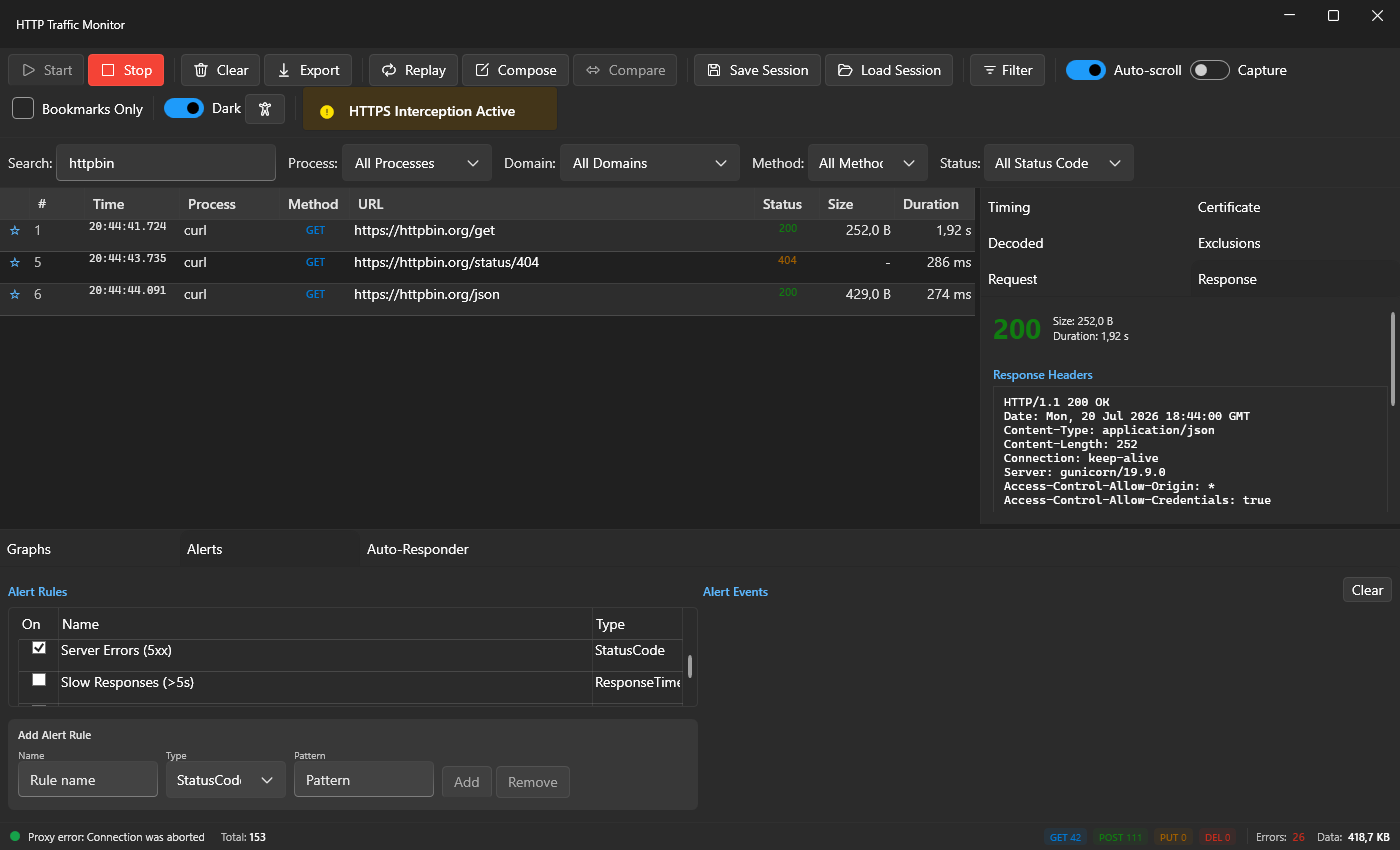
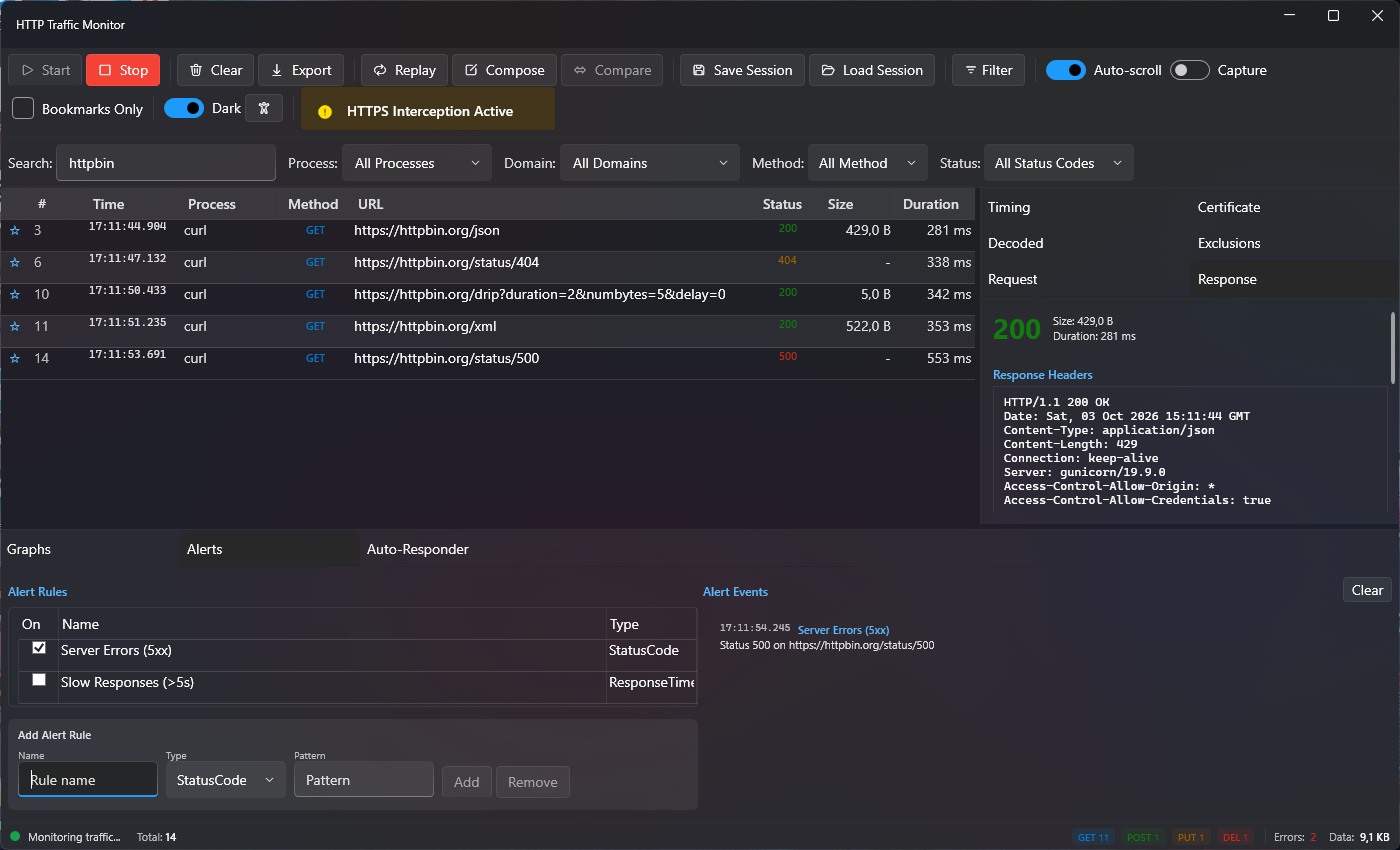
Show only demo traffic in the README screenshots
The still screenshots below the demo showed traffic from the maintainer's
own machine (OneDrive and Microsoft telemetry endpoints, Slack, Copilot,
their process names) and a "Proxy error" in the status bar. All nine are
re-shot from the current build with nothing but curl calls to public sample
APIs (JSONPlaceholder, httpbin, example.com, GitHub) and a normal
"Monitoring traffic..." status. They still show the charts, request detail,
timing, response, advanced filter, replay, alerts, auto-responder and the
light theme. The README now says the pictures show demo traffic and that
the 404/500 responses are deliberate, and that the alert event comes from
the demo's 500 request.

Implemented and verified by an automated run; please review before trusting it blindly.

diff --git a/README.md b/README.md
@@ -39,6 +39,8 @@ Choose this tool when you are on Windows and want a free graphical inspector tha
 
 ![Live capture with charts](docs/screenshots/02-live-capture.png)
 
+*The screenshots show demo traffic only: `curl` calls to public sample APIs (JSONPlaceholder, httpbin, example.com, GitHub). The 404 and 500 responses among them are requested on purpose, to show how failed requests stand out.*
+
 ## Features
 
 ### Capture & inspect
@@ -65,14 +67,14 @@ Edit and resend any captured request, or compose a brand-new one from scratch, w
 Pick two requests and get a line-by-line diff (via [DiffPlex](https://github.com/mmanela/diffplex)) across headers and bodies.
 
 ### Alerts
-Rule-based alerting on status codes, response time thresholds, or custom patterns, with a live event feed.
+Rule-based alerting on status codes, response time thresholds, or custom patterns, with a live event feed. Below, the built-in **Server Errors (5xx)** rule has caught the demo request to `httpbin.org/status/500`.
 
-![Alerts tab](docs/screenshots/07-alerts-tab.png)
+![Alerts tab with the 5xx rule firing on a demo request](docs/screenshots/07-alerts-tab.png)
 
 ### Auto-Responder (mocking)
 Intercept matching requests (by URL/regex + method) and return a canned status code, headers, and body — or serve a file — with an optional artificial delay. Great for mocking flaky or unavailable backends during development.
 
-![Auto-Responder tab](docs/screenshots/08-autoresponder-tab.png)
+![Auto-Responder tab with a mock rule for a sample API](docs/screenshots/08-autoresponder-tab.png)
 
 ### Graphs
 Live requests-per-second and bandwidth charts, plus top-domains and top-processes breakdowns (via [LiveCharts2](https://livecharts.dev/)).
